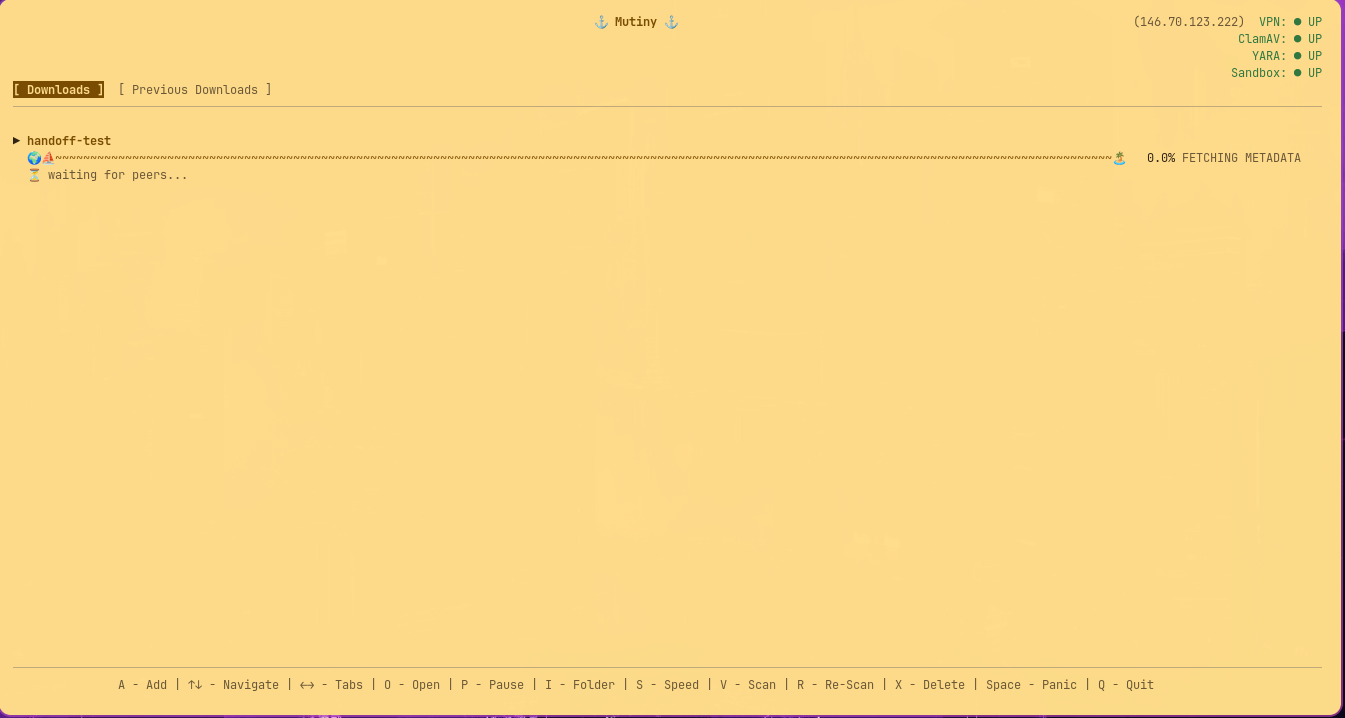
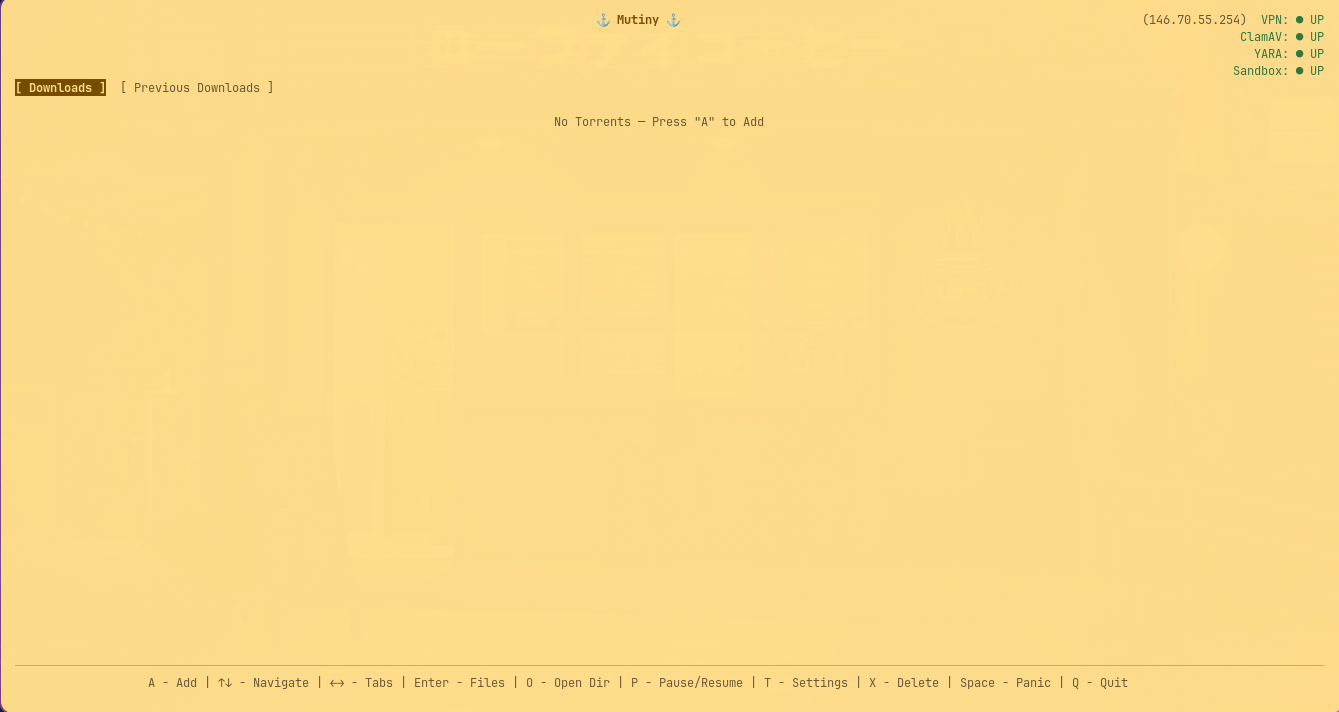
docs: update screenshots — all 4 TUI views
Main, Downloads, Previous Downloads, and Scan report screenshots
from the actual running TUI with demo data.

diff --git a/README.md b/README.md
@@ -4,6 +4,12 @@
 
 ![Mutiny TUI — Main view](assets/mutiny-tui-main.png)
 
+![Mutiny TUI — Downloads](assets/mutiny-tui-downloads.png)
+
+![Mutiny TUI — Previous Downloads](assets/mutiny-tui-previous.png)
+
+![Mutiny TUI — Scan report](assets/mutiny-tui-scan.png)
+
 [![Release](https://img.shields.io/github/v/release/Lumb3rH4ck/mutiny?style=flat-square)](https://github.com/Lumb3rH4ck/mutiny/releases)
 [![License](https://img.shields.io/badge/license-GPL--3.0-blue?style=flat-square)](LICENSE)
 [![Platforms](https://img.shields.io/badge/platforms-Linux%20%7C%20Windows-green?style=flat-square)]()
